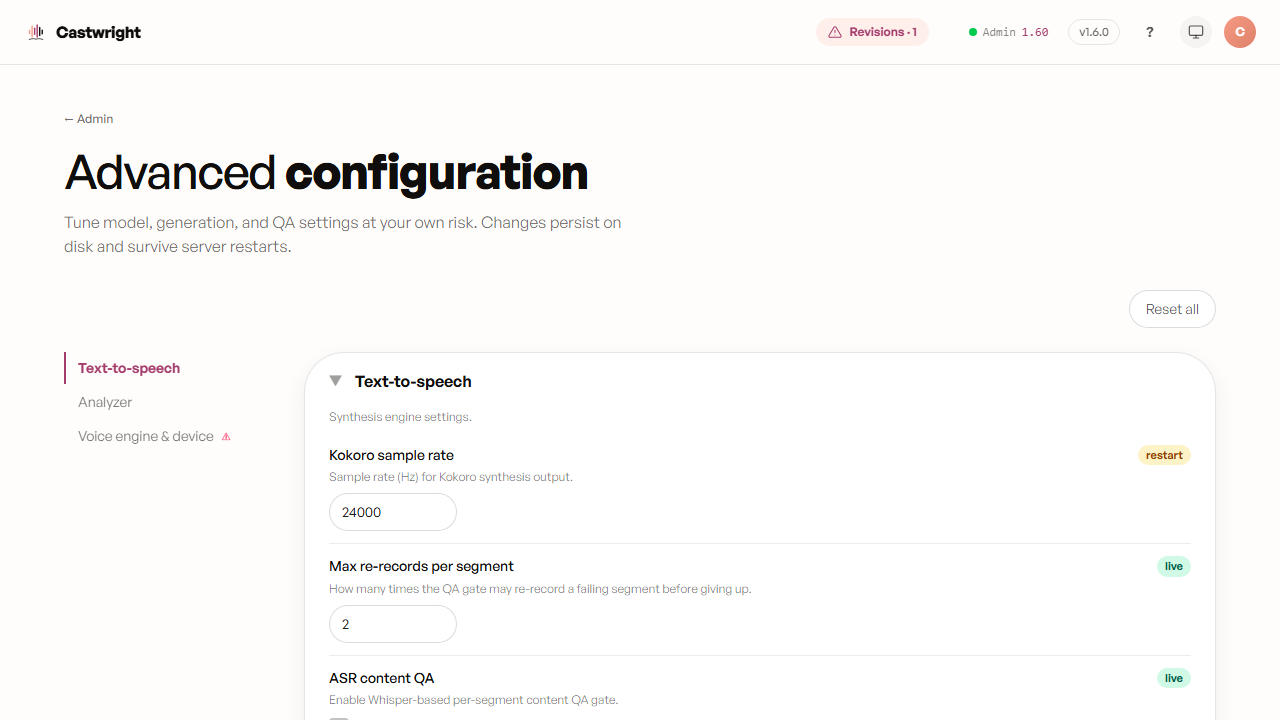
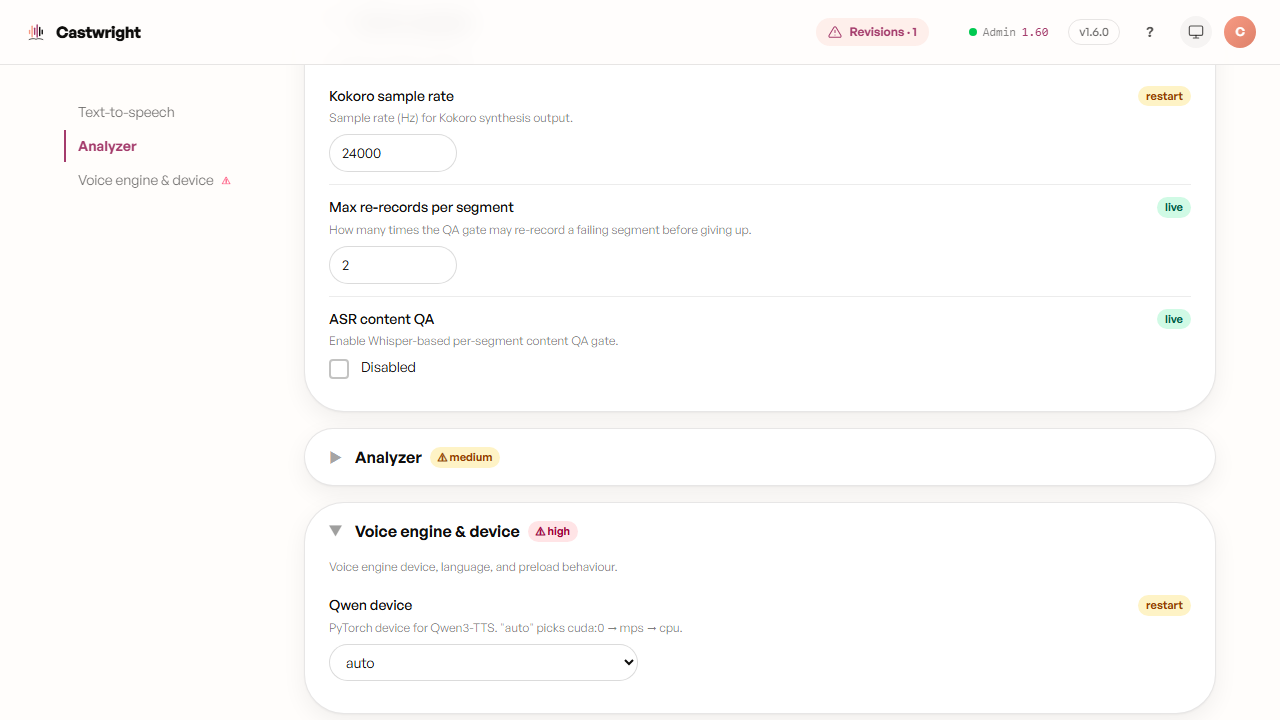
fix(e2e,docs): fix broken capture selectors, restore dropped doc content
Code-review fixes for PR #1315:

- e2e/marketing/scenes.ts: the regenerate-modal scene's action matched
  zero elements (the per-chapter Regenerate button's accessible name is
  its aria-label "Regenerate this chapter", not its visible "Regenerate"
  text) and silently fell back to a pre-interaction screenshot. Fixed
  the selector and re-captured the real regenerate-scope modal.
- e2e/marketing/scenes.ts: the advanced-settings scene's action hit a
  Playwright strict-mode violation ("Voice engine & device" matches the
  left-rail nav button, the accordion section's own header, and a
  hidden mobile <option> at once). Scoped the click to the left-rail
  <nav aria-label="Settings sections"> and re-captured the section
  actually expanded.
- Library-Management.md: restored the Series Memory chip explanation,
  dropped during the rewrite with no replacement anywhere in the wiki.
- Voice-Engines.md: restored the "only when engine != Qwen" qualifier
  on the preset voice-picker tabs, dropped during the rewrite.

Refs #1315, #1318

diff --git a/e2e/marketing/scenes.ts b/e2e/marketing/scenes.ts
@@ -163,17 +163,26 @@ export const SCENES: Scene[] = [
     hash: '#/advanced',
     viewports: ['desktop'],
     action: async (page) => {
-      await page.getByText('Voice engine & device', { exact: true }).click({ timeout: 5000 });
+      // "Voice engine & device" also renders as the accordion section's own
+      // header button and (hidden on desktop) as a mobile <option> inside
+      // the lg:hidden dropdown — scope to the left-rail <nav
+      // aria-label="Settings sections"> so the match is unambiguous.
+      await page
+        .getByRole('navigation', { name: 'Settings sections' })
+        .getByText('Voice engine & device', { exact: true })
+        .click({ timeout: 5000 });
     },
   },
   {
     /* Saltgrave (hollow-tide-2) is mid-generation (7/11 done) — the Regenerate
-       action on a finished chapter opens the real per-chapter modal. */
+       action on a finished chapter opens the real per-chapter modal. The
+       per-chapter button's accessible name is its aria-label
+       ("Regenerate this chapter"), not its visible "Regenerate" text. */
     id: 'regenerate-modal',
     hash: '#/books/hollow-tide-2/generate',
     viewports: ['desktop'],
     action: async (page) => {
-      await page.getByRole('button', { name: 'Regenerate', exact: true }).first().click({ timeout: 5000 });
+      await page.getByRole('button', { name: 'Regenerate this chapter' }).first().click({ timeout: 5000 });
     },
   },
   {

diff --git a/docs/wiki/Generating-Audio.md b/docs/wiki/Generating-Audio.md
@@ -10,24 +10,26 @@ An English book gets a "Proceed anyway — generic Kokoro fallback voices" escap
 
 ## While it's rendering
 
-Chapters list down the left; the whole run's overall progress, a completed/in-progress/queued/failed breakdown, and an activity feed sit at the top. Below, *Saltgrave* mid-render — 7 of 11 chapters complete, 64% overall:
+Chapters list down the left; the whole run's overall progress, a completed/in-progress/queued/failed breakdown, and an activity feed sit at the top.
 
-![Generate view mid-render, with a completed chapter's action row expanded](images/generating-audio/04-regenerate-chapter.png)
+![Generation progress with per-chapter counters](images/generating-audio/02-generation-progress.png)
 
 ## Previewing a finished chapter
 
-A chapter that turns green with a "Done" badge, like Chapter 1 above, expands to a row of actions: **Preview** plays it right there through the mini-player pinned to the bottom of the screen — no trip to the Listen tab required — alongside **Exclude**, **Rename**, **Re-analyse**, and **Regenerate**. It's the fastest way to spot-check a chapter the moment it finishes.
-
-![Generation progress with per-chapter counters](images/generating-audio/02-generation-progress.png)
+A chapter that turns green with a "Done" badge expands to a row of actions: **Preview** plays it right there through the mini-player pinned to the bottom of the screen — no trip to the Listen tab required — alongside **Exclude**, **Rename**, **Re-analyse**, and **Regenerate**. It's the fastest way to spot-check a chapter the moment it finishes.
 
 ## Sending a line back for another take
 
 Nothing here is final the moment it renders. Two regeneration paths cover the two things you're usually reacting to — a chapter that didn't land, or a character whose voice needs adjusting everywhere they speak:
 
-**Per chapter.** Click Regenerate on any chapter and choose a scope — just this chapter, or this chapter and every one after it — pick a reason, optionally switch the quality tier, and watch a live ETA update as you adjust the scope. Confirming flips that chapter from done back to in-progress and re-queues it.
+**Per chapter.** Click Regenerate on any chapter and choose a reason and a scope — just this chapter, or this chapter and every one after it. Below, *Saltgrave* mid-render (7 of 11 done) with Chapter 1's regenerate dialog open:
+
+![Regenerate dialog — reason picker and scope tiles](images/generating-audio/04-regenerate-chapter.png)
+
+Confirming flips that chapter from done back to in-progress and re-queues it.
 
 **Per character, with a preview-first option.** From the character's profile in the Cast tab, "Regenerate across the book" lists every chapter they speak in and lets you re-render all of them at once — or choose **Preview** instead, which renders only the first affected chapter and stops there. That preview opens the same A/B revision player used throughout the app: the old take and the new one, side by side, playable segment by segment. Accept it and the rest of that character's chapters fan out to regenerate on the same settings; reject it and nothing else is touched, so you can adjust and try again before committing to a full re-render. Selecting several characters at once in the Cast table's multi-select runs the same flow across all of them together.
 
-> Screenshots of the voice-readiness gate, the regenerate-scope modal, and the preview/A-B revision player in action are tracked as a follow-up — the two shots above are the real Generate view, captured mid-render.
+> Screenshots of the voice-readiness gate and the preview/A-B revision player in action are tracked as a follow-up (#1318).
 
 Next: every rendered line — regenerated or not — still has to clear [The Quality Gate](The-Quality-Gate) before it counts as done.

diff --git a/docs/wiki/Advanced-Settings.md b/docs/wiki/Advanced-Settings.md
@@ -16,12 +16,13 @@ small warning glyph) start collapsed; the rest start open.
 
 ## Accelerator profile
 
-Below is the **Text-to-speech** group — sample rate, re-record budget, and
-the ASR content-QA toggle. The **Voice engine & device** group sits right
-next to it in the same side-nav and is the one most people reach for first —
-it pins which GPU stack each engine runs on:
+The **Voice engine & device** group — flagged **high** risk in the side-nav
+— is the one most people reach for first: it pins which GPU stack each
+engine runs on. Below, that group expanded, with the **Text-to-speech**
+group (sample rate, re-record budget, ASR content-QA toggle) still open
+above it in the same accordion:
 
-![Advanced configuration accordion](images/advanced-settings/01-accelerator-profile.png)
+![Advanced configuration accordion — Voice engine & device expanded](images/advanced-settings/01-accelerator-profile.png)
 
 **Accelerator profile** is the headline knob: `auto` (default) detects your
 hardware and picks NVIDIA/CUDA, AMD/ROCm-DirectML, Apple/Metal, or CPU;

diff --git a/docs/wiki/Voice-Engines.md b/docs/wiki/Voice-Engines.md
@@ -40,7 +40,10 @@ unloaded independently.
 Gemini isn't a local model, so it has no Model Manager row — there's nothing
 to load or unload. It shows up instead as a voice family in the Voice
 Library and as one of the tabs in a character's **Model voice** picker
-(Profile Drawer → Voice profile), alongside Coqui and Kokoro. Below, "Charon"
+(Profile Drawer → Voice profile), alongside Coqui and Kokoro — those preset
+tabs only render once that character's engine is set to something other than
+Qwen; a Qwen-engine character designs a bespoke voice instead (see
+[Designing a Voice](Designing-a-Voice)) and never sees this picker. Below, "Charon"
 — a Gemini voice reused across two cast members in *The Hollow Tide* series —
 with **Audition base voice** and **Rebaseline the series** actions.
 

diff --git a/docs/wiki/Library-Management.md b/docs/wiki/Library-Management.md
@@ -32,6 +32,12 @@ same grouping as a plain section heading rather than a collapsible one.
 
 ![Series grouping — table view](images/library-management/02-series-grouping.png)
 
+Once you've listened across multiple books in a series, a **Series Memory**
+chip appears next to the section header, summarising which characters'
+voices have carried through from one book to the next — the continuity
+[Reviewing Cast & Assigning Voices](Reviewing-Cast-and-Assigning-Voices)
+talks about, made visible on the shelf.
+
 ## Book bundles
 
 The plan for this page originally called for a screenshot of a **book
